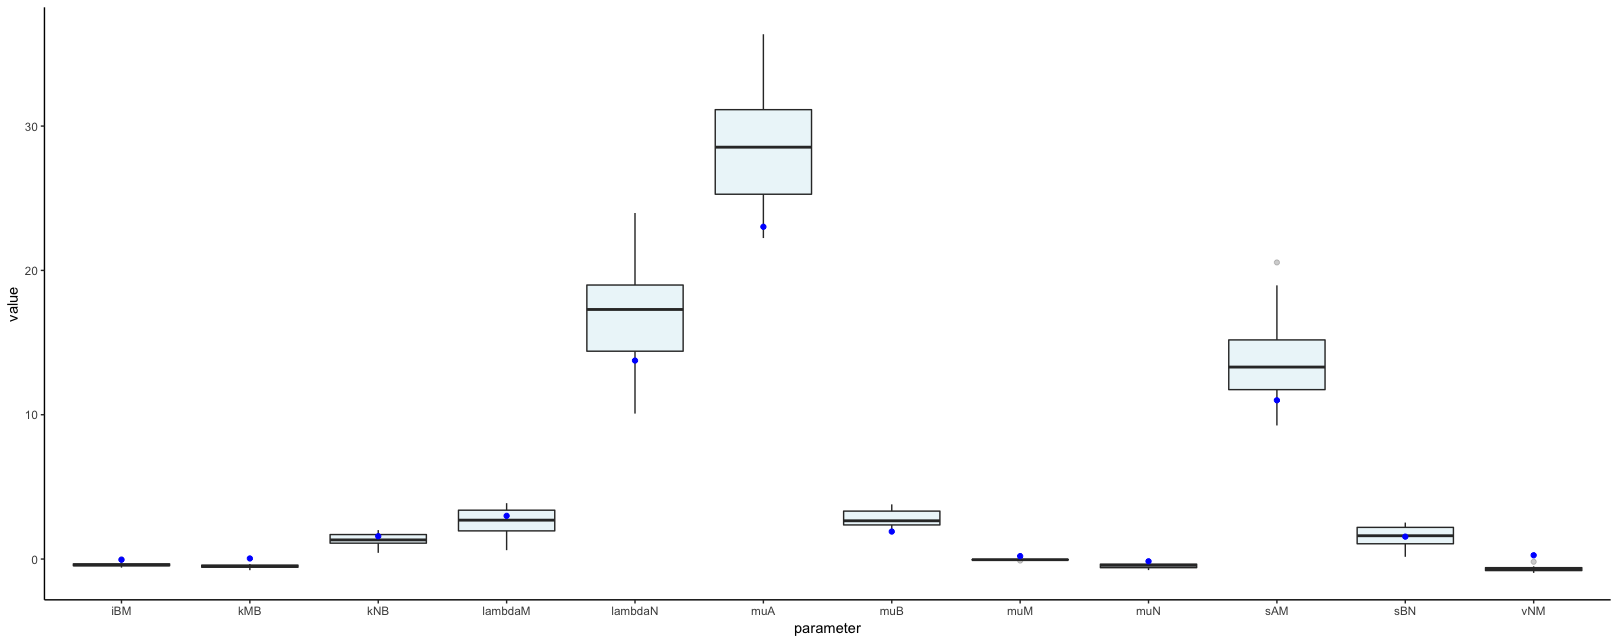
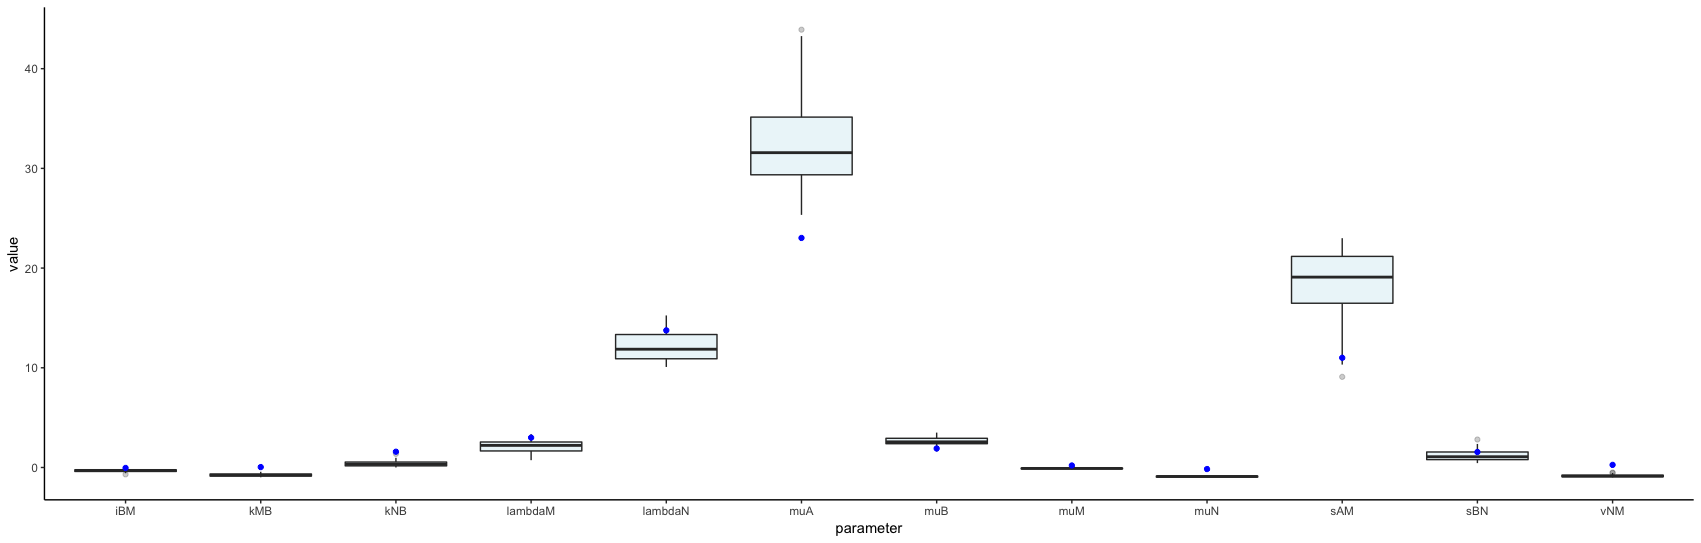
Fix the normalisation.

diff --git a/dataPreProcess/inferBack.py b/dataPreProcess/inferBack.py
@@ -61,6 +61,8 @@ for key in expData:
 # Define distance function
 # Euclidean distance
 def distance(dataNormalised, simulation):
+    for key in simulation:
+        simulation[key] = (simulation[key] - simulation[key].mean()) / simulation[key].std()
     dis = 0.
     for key in dataNormalised:
         dis += numpy.absolute(pow((dataNormalised[key] - simulation[key]), 2.0)).sum()
@@ -97,13 +99,13 @@ paraPrior = pyabc.Distribution(
 abc = pyabc.ABCSMC(models=ODEmodel,
                    parameter_priors=paraPrior,
                    distance_function=distance,
-                   population_size=20,
+                   population_size=50,
                    # transitions=pyabc.LocalTransition(k_fraction=.3)
                    eps=pyabc.MedianEpsilon(500, median_multiplier=0.7)
                    )
 
 abc.new(db_path, expData)
 
-history = abc.run(minimum_epsilon=1, max_nr_populations=3)
+history = abc.run(minimum_epsilon=1, max_nr_populations=4)
 
 # print(history.get_distribution(t=2))
